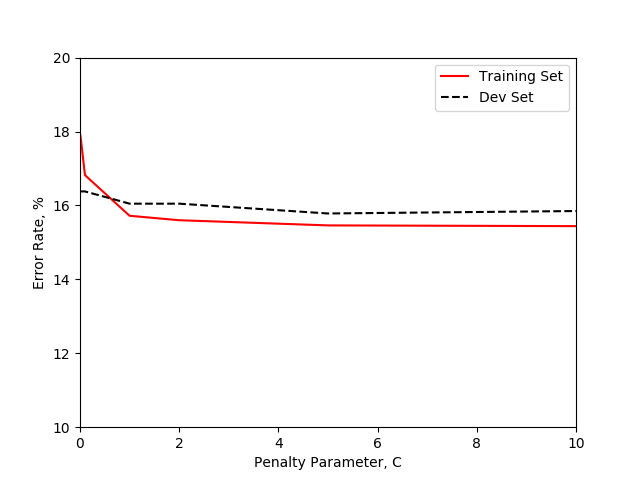
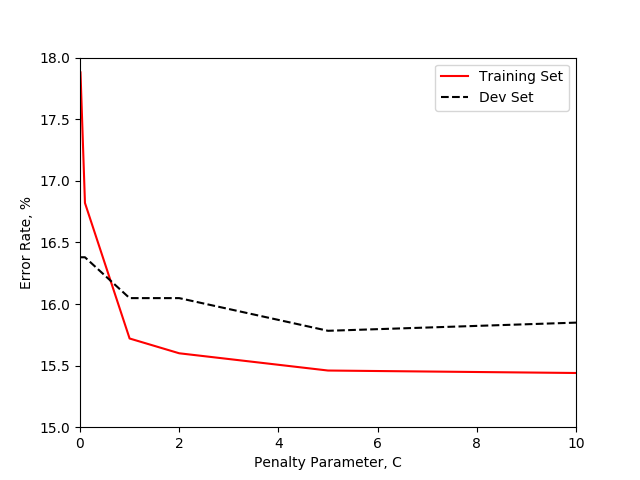
Better resolved plot
New plot with better resolution

diff --git a/ErrorRatePlot.py b/ErrorRatePlot.py
@@ -27,7 +27,7 @@ for i in range(len(cParam)):
 
 plt.plot(cParam, train_error, 'r-', cParam, dev_error, 'k--')
 plt.legend(('Training Set', 'Dev Set'))
-plt.axis([0, 10, 10, 20])
+plt.axis([0, 10, 15, 18])
 plt.xlabel('Penalty Parameter, C')
 plt.ylabel('Error Rate, %')
 plt.show()
